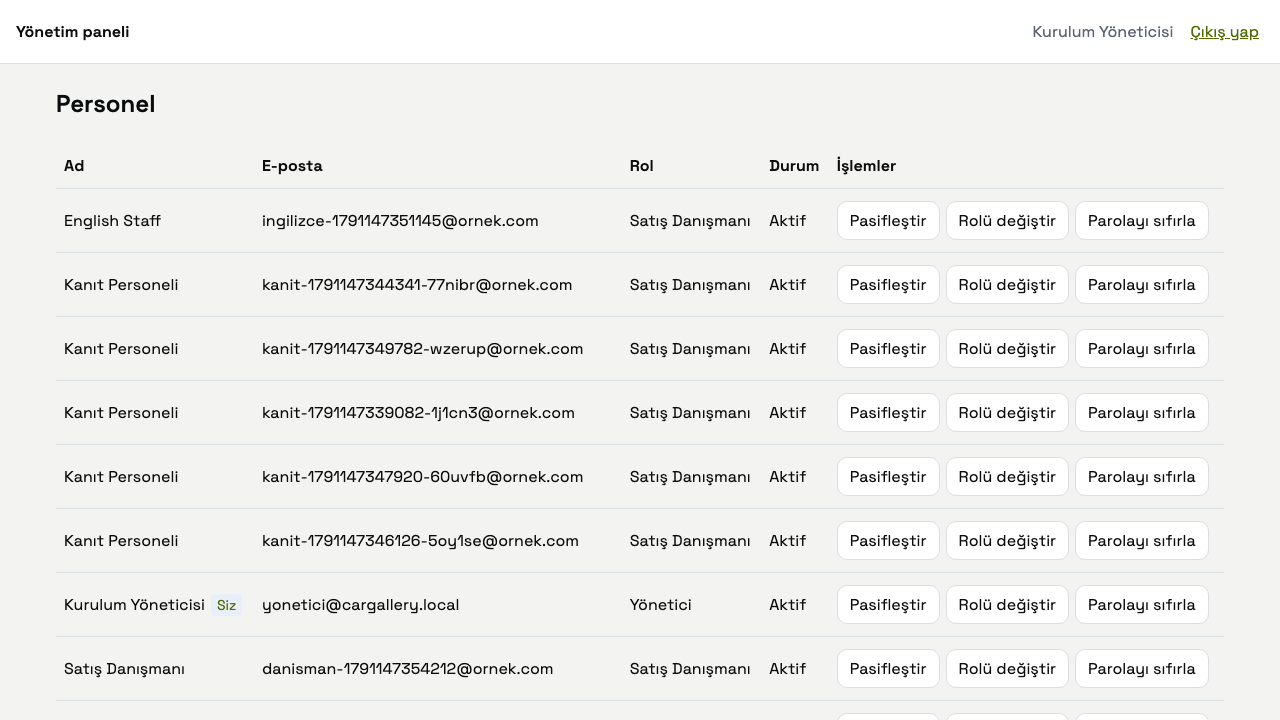
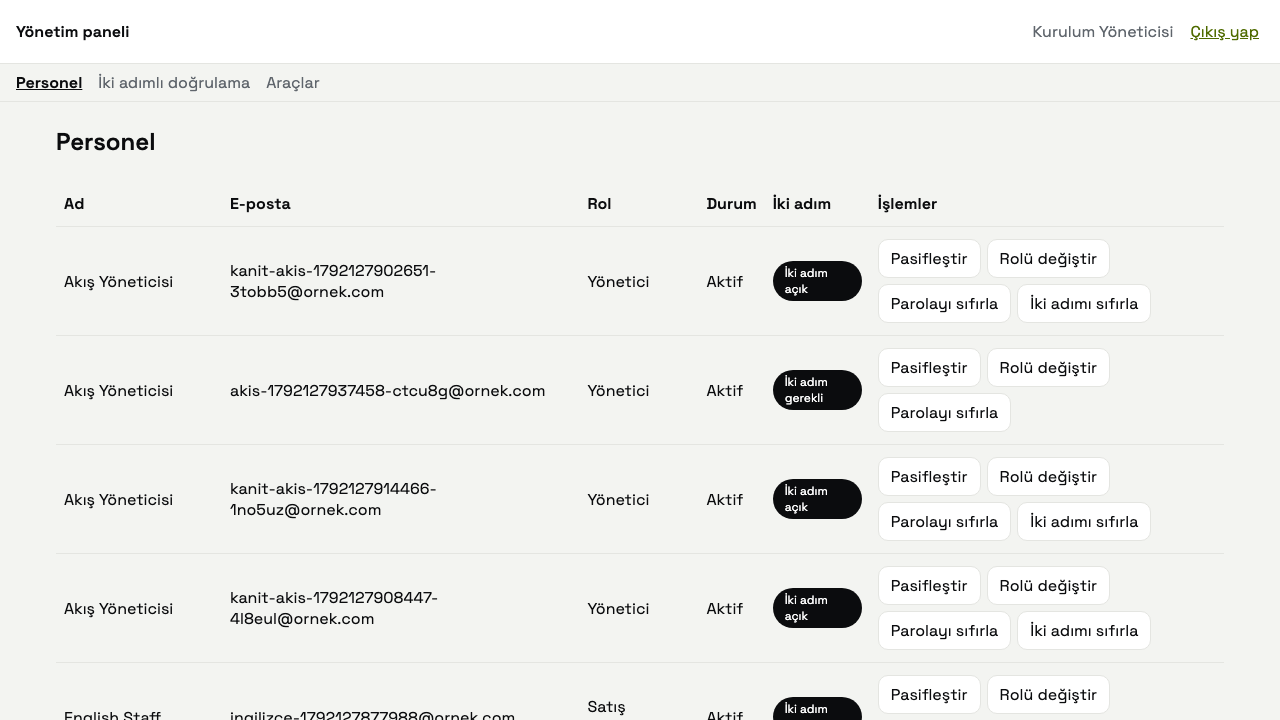
docs(spec): 0013'ün kanıtları, ölçümleri ve DoD'si [plan 0013/8]
On yeni görsel kanıt (ikinci adım fazı · red · süresi dolmuş ara durum · kilit ipucu ·
yükleniyor · kare kod + elle giriş · kurtarma kodları · kalan sayı · liste rozeti ·
Arapça RTL) ve D27'nin borcu: 0008'in tablo görselleri dördüncü eylemle ve altıncı
kolonla yenilendi — iddiası dokunulmadı.

Yalnız bu PR'ın değiştirdiği ekranlar yenilendi: tam bir kanıt turu bu makinede 150
görselin 133'ünü bayt düzeyinde değiştiriyor (yazı tipi/piksel oranı ve koşu başına
değişen seed verisi). Gerçek bir görsel değişiklik o gürültünün içinde görünmezdi.

Spec'e iki ölçüm işlendi: D2'nin maliyet tahmini yüksekti (on kurtarma kodu 210.000
iterasyonla 295 ms, 10.000 ile 13 ms — "saniyeler" değil çeyrek saniye) ve D45'in bedeli
bir TAVAN (hesap başına otuz saniyede bir giriş), e2e mimarisini belirleyen şey o.

DoD: 38 kutunun 33'ü işaretli. Açık kalan beşi: kare kodun gerçek bir doğrulama
uygulamasında okunması (D41, insana kalan yarı), pipeline, QA turu, TM onayı, SCORECARD.

diff --git a/docs/architecture.md b/docs/architecture.md
@@ -509,6 +509,8 @@ altındaki ADR'lerdedir.
 | Coğrafi arama | PostGIS yok |
 | Şube bazlı yetki | Yok (V1) |
 | Personel oturumu | Sunucu tarafı opak oturum çerezi; JWT yok (rol ve durum her istekte kaynaktan) |
+| İki adımlı doğrulama | **Kapsamda** (`0013`): zamana bağlı kod (HMAC-SHA1 · 6 hane · 30 sn, parametre kümesi **dondurulmuş**), **Yönetici** rolünde zorunlu, diğer rollerde opsiyonel. Doğrulama sırrı geri döndürülebilir saklanmak **zorundadır** ve uygulama düzeyinde şifrelenir; anahtar dağıtım yapılandırmasından. SMS, donanım anahtarı ve "bu cihazı hatırla" kapsam dışı |
+| İkinci adımın kaydı | `identity` şemasında **kendi tablosu**; kurulum · kapatma · sıfırlama · kurtarma kodu kullanımı yazılır, **başarısız denemeler yazılmaz**. Bu depodaki ilk denetim kaydı — tüketicisi olmayan bir entegrasyon olayı değil |
 | Eşzamanlılık | Invariant koruması: satır kilidi + tek transaction (`InvariantGuard`); iyimser eşzamanlılık yok |
 | Şase tekilliği | `vehicles` üzerinde kısmi tekil indeks (`NOT is_archived`); araç kendi arşiv bayrağını taşır |
 | Opsiyonel alan tipleri | Kapalı tip kümesi; alan → tip eşlemesi KODDA, değer tipli kolonlarda (tutar `numeric(19,4)` + kod + üs) |
